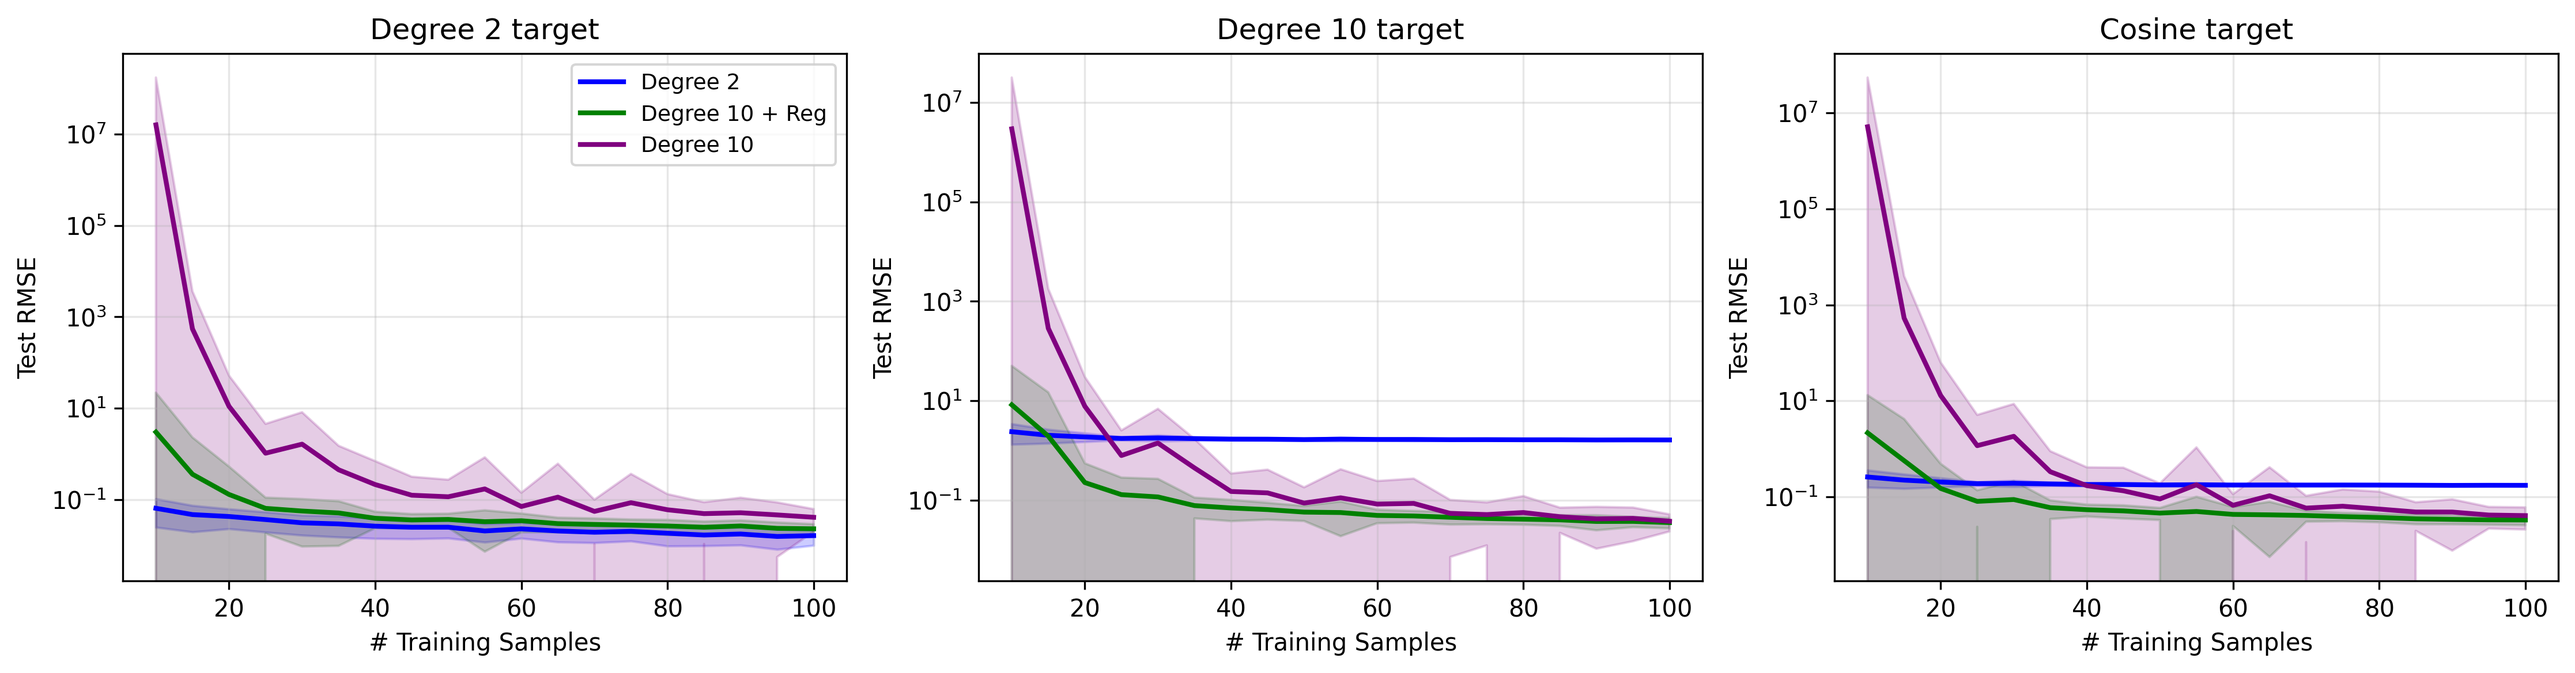
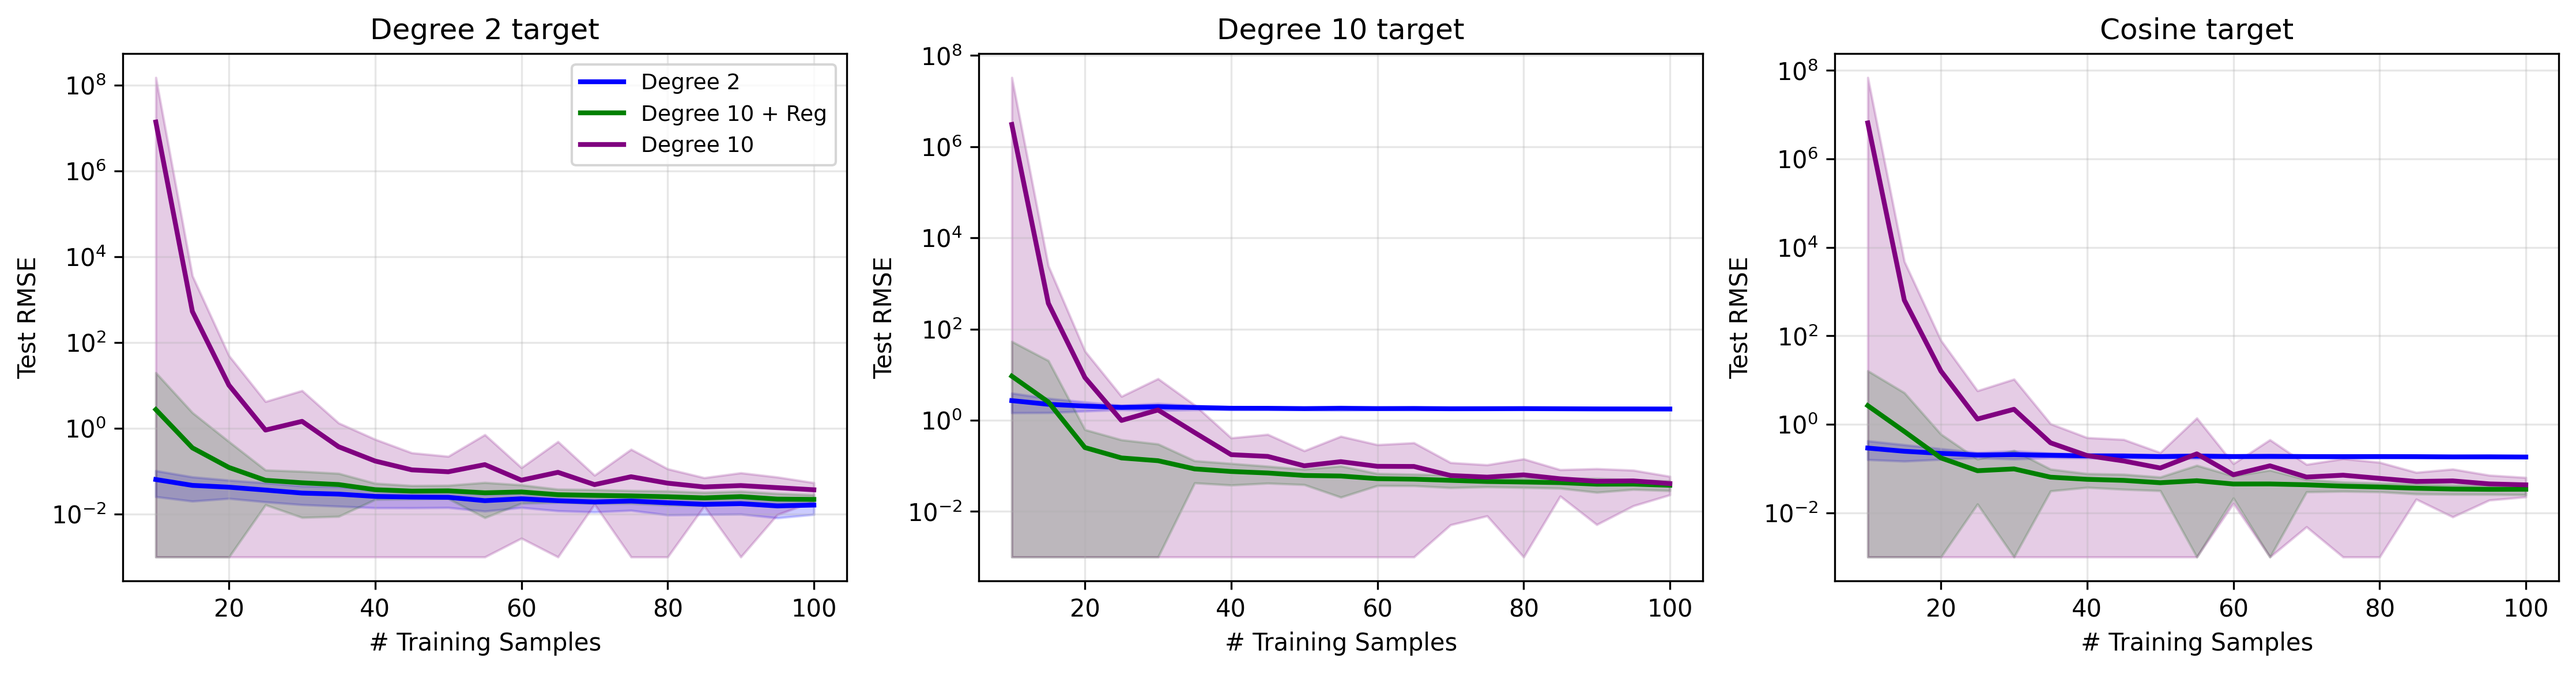
fix: minor improvements

diff --git a/equiv/sample_size.py b/equiv/sample_size.py
@@ -6,13 +6,12 @@ sample size experiments
 import jax
 import jax.numpy as jnp
 import matplotlib.pyplot as plt
+import numpy as np
 import pandas as pd
 from data import generate_toy_data
 from loguru import logger
 from ml import fit_polynomial, predict_polynomial
 from utils import set_seed
-
-jax.config.update("jax_enable_x64", True)
 
 
 def _eval_rmse(
@@ -34,6 +33,7 @@ def run_sample_size_experiment(
     n_trials: int = 100,
     noise_sigma: float = 0.1,
     seed: int = 0,
+    bounds: list[float] = [0.0, 1.0],
 ) -> pd.DataFrame:
     """Run a sample size experiment comparing degree-2, degree-10, and regularized degree-10 polynomials.
 
@@ -47,13 +47,15 @@ def run_sample_size_experiment(
     sample_sizes : list of int
         Training set sizes to evaluate.
     alpha : float
-        Regularization strength for the degree-10 soft-ODR model.
+        Regularization strength for the degree-10 quadratic ODR model.
     n_trials : int
         Number of independent trials per sample size.
     noise_sigma : float
         Standard deviation of Gaussian noise added to training targets.
     seed : int
         Base random seed for reproducibility.
+    bounds : list of float
+        [low, high] range for uniform x samples, applied to both train and test.
 
     Returns
     -------
@@ -64,13 +66,13 @@ def run_sample_size_experiment(
         One row per entry in ``sample_sizes``.
     """
     key = set_seed(seed)
-    x_test, y_test = generate_toy_data(data_type, 400, [0.0, 1.0], seed=seed + 9999)
+    x_test, y_test = generate_toy_data(data_type, 100, bounds, seed=seed + 9999)
 
     records = []
     for i, n in enumerate(sample_sizes):
         for trial in range(n_trials):
             x_train, y_noiseless = generate_toy_data(
-                data_type, n, [0.0, 1.0], seed=seed + i * n_trials + trial
+                data_type, n, bounds, seed=seed + i * n_trials + trial
             )
             key, noise_key = jax.random.split(key)
             y_train = y_noiseless + noise_sigma * jax.random.normal(noise_key, (n,))
@@ -140,7 +142,11 @@ def make_sample_size_figure() -> None:
             std = results[f"{model}_std"]
             ax.semilogy(results["n"], mean, color=color, linewidth=2, label=label)
             ax.fill_between(
-                results["n"], mean - std, mean + std, color=color, alpha=0.2
+                results["n"],
+                np.maximum(mean - std, 1e-3),  # sets lower limit on displayed bounds
+                mean + std,
+                color=color,
+                alpha=0.2,
             )
         ax.set_title(title)
         ax.set_xlabel("# Training Samples")

diff --git a/equiv/data.py b/equiv/data.py
@@ -1,15 +1,13 @@
 """Utilities for generating sample data"""
 
-from typing import List, Tuple
-
 import jax
 import jax.numpy as jnp
 from utils import set_seed
 
 
 def generate_toy_data(
-    data_type: str, n_samples: int, bounds: List[float], seed: int
-) -> Tuple[jnp.ndarray, jnp.ndarray]:
+    data_type: str, n_samples: int, bounds: list[float], seed: int
+) -> tuple[jnp.ndarray, jnp.ndarray]:
     """Generate synthetic 1-D regression data.
 
     Parameters
@@ -35,14 +33,18 @@ def generate_toy_data(
     y : jnp.ndarray, shape (n_samples,)
         Target values.
     """
-    assert data_type in [
+    valid = {
         "simple",
         "structured",
         "2nd order polynomial",
         "cosine",
         "10th order polynomial",
         "noise",
-    ]
+    }
+    if data_type not in valid:
+        raise ValueError(
+            f"Unknown data_type {data_type!r}. Must be one of {sorted(valid)}"
+        )
 
     key = set_seed(seed)
     keys = jax.random.split(key, 2)
@@ -50,42 +52,28 @@ def generate_toy_data(
     x = jax.random.uniform(keys[0], (n_samples,), minval=bounds[0], maxval=bounds[1])
 
     if data_type == "simple":
-        # logger.info("Generating simple data")
         x = jnp.sort(x)
         y = jnp.sin(x) * jnp.cos(x**2)
     elif data_type == "structured":
-        # logger.info("Generating structured data")
         x = jnp.sort(x)
         y = x + jnp.cos(jnp.pi * x)
     elif data_type == "2nd order polynomial":
-        # logger.info("Generating 2nd order polynomial data")
         x = jnp.sort(x)
         y = x**2
     elif data_type == "cosine":
-        # logger.info("Generating cosine data")
         x = jnp.sort(x)
         y = jnp.cos(3 / 2 * jnp.pi * x)
     # one of the paper claims to fit a 15th order polynomial, but other papers provide
-    # formulas for only 10th order polynimals...
+    # formulas for only 10th order polynomials...
     elif data_type == "10th order polynomial":
-        # logger.info("Generating 10th order polynomial data")
         x = jnp.sort(x)
         y = -36 * x + 49 * x**5 - 14 * x**7 + x**10
 
     else:
-        # logger.info("Generating randn data")
         y = jax.random.normal(keys[1], (n_samples,))
-
-    # add option to add noise?
 
     return x, y
 
 
-def main():
-    pass
-
-
 if __name__ == "__main__":
-    main()
-
     pass

diff --git a/equiv/ml.py b/equiv/ml.py
@@ -3,7 +3,9 @@
 import jax.numpy as jnp
 
 
-def _scale_x(x: jnp.ndarray) -> tuple[jnp.ndarray, float, float]:
+def _scale_x(
+    x: jnp.ndarray, x_min: float | None = None, x_max: float | None = None
+) -> tuple[jnp.ndarray, float, float]:
     """Scale x to [-1, 1] using min-max normalization.
 
     Parameters
@@ -20,8 +22,10 @@ def _scale_x(x: jnp.ndarray) -> tuple[jnp.ndarray, float, float]:
     x_max : float
         Observed maximum of x.
     """
-    x_min = float(jnp.min(x))
-    x_max = float(jnp.max(x))
+    if x_min is None:
+        x_min = float(jnp.min(x))
+    if x_max is None:
+        x_max = float(jnp.max(x))
     x_scaled = 2.0 * (x - x_min) / (x_max - x_min + 1e-12) - 1.0
     return x_scaled, x_min, x_max
 
@@ -64,7 +68,6 @@ def fit_polynomial(
 
     # create polynomial feature matrix
     X = jnp.stack([x_scaled**j for j in range(degree + 1)], axis=1)
-    X = X.reshape(-1, degree + 1)
     # create regularization matrix
 
     if odr == "exp_odr":
@@ -82,7 +85,7 @@ def fit_polynomial(
             jnp.matmul(X.T, X) + alpha * jnp.diag(penalties), jnp.matmul(X.T, y)
         )
     else:
-        # solve for coefficients without order-dependent regularization
+        # TODO: consider using lstsq, handles rank-deficient cases (degree >= n_samples) without NaN
         coeffs = jnp.linalg.solve(jnp.matmul(X.T, X), jnp.matmul(X.T, y))
 
     return coeffs, x_min, x_max
@@ -109,6 +112,6 @@ def predict_polynomial(
     jnp.ndarray, shape (m,)
         Predicted values.
     """
-    x_scaled = 2.0 * (x - x_min) / (x_max - x_min + 1e-12) - 1.0
+    x_scaled, _, _ = _scale_x(x, x_min, x_max)
     X = jnp.stack([x_scaled**j for j in range(len(coeffs))], axis=1)
     return jnp.matmul(X, coeffs)

diff --git a/equiv/odr.py b/equiv/odr.py
@@ -3,14 +3,11 @@
 Order-dependent regularization experiment.
 """
 
-import jax
 import jax.numpy as jnp
 import matplotlib.pyplot as plt
 from data import generate_toy_data
 from loguru import logger
 from ml import fit_polynomial, predict_polynomial
-
-jax.config.update("jax_enable_x64", True)
 
 
 def make_odr_figure() -> None:

diff --git a/tests/test_data.py b/tests/test_data.py
@@ -40,5 +40,5 @@ def test_x_within_bounds():
 
 
 def test_invalid_data_type_raises():
-    with pytest.raises(AssertionError):
+    with pytest.raises(ValueError):
         generate_toy_data("bad", 5, [0.0, 1.0], seed=0)

diff --git a/equiv/utils.py b/equiv/utils.py
@@ -28,11 +28,5 @@ def set_seed(seed: int) -> jax.random.PRNGKey:
     return jax_key
 
 
-def main():
-    pass
-
-
 if __name__ == "__main__":
-    main()
-
     pass

diff --git a/README.md b/README.md
@@ -9,15 +9,14 @@ Experiments w/ equivariance constraints/soft inductive biases and ml algorithms.
 
 Based on talk from Dr. Andrew Gordon Wilson from June 2025 at LoG NYC meetup.
 
-
 ## Main ideas
+
 - Embrace an expansive hypothesis space w/ softer inductive biases instead of hard restrictions
 - Compressibility of solution space goes hand-in-hand with model size (larger models can have more 'efficient' solution spaces than smaller models). This is what makes neural nets unique
--  'Occam's Razor' Bias
+- 'Occam's Razor' Bias
 - Good q: should we use a different model if we have less/more data? (ans: no, b/c do we think that the data generation process is dependent on the number of samples? obv not)
 - For example: in CNNs, instead of explicit parameter sharing that enforces translation invariances, use a softer restriction that encourages
 translation parameter sharing but not a hard restriction
-
 
 ## Usage
 
@@ -30,11 +29,13 @@ uv run equiv/main.py
 ## Development
 
 Run tests
+
 ```bash
 make tests
 ```
 
-Lint and format code 
+Lint and format code
+
 ```bash
 make lint
 ```
@@ -60,7 +61,7 @@ when it isn't at the extremas.
 ![Sample size figure](figures/sample_size.png)
 
 Again, pretty close to the figures from the talk. The magnitude of the RMSE isn't as low, but the
-relative trends for the different models hold up. 
+relative trends for the different models hold up.
 
 ## Papers & References
 
@@ -71,7 +72,6 @@ https://arxiv.org/pdf/2304.05366
 Very interesting blog post on an exchange between Radford Neal, Andrew Gelman and David MacKay on this topic: https://statmodeling.stat.columbia.edu/2011/12/04/david-mackay-and-occams-razor/
 
 ## Notes
+
 - Jax random works differently to numpy due to parallelization concerns
 - Jax defaults to float32 whereas numpy defaults to float64, requires `jax_enable_x64` to resolve some overflow issues
-- 
-
